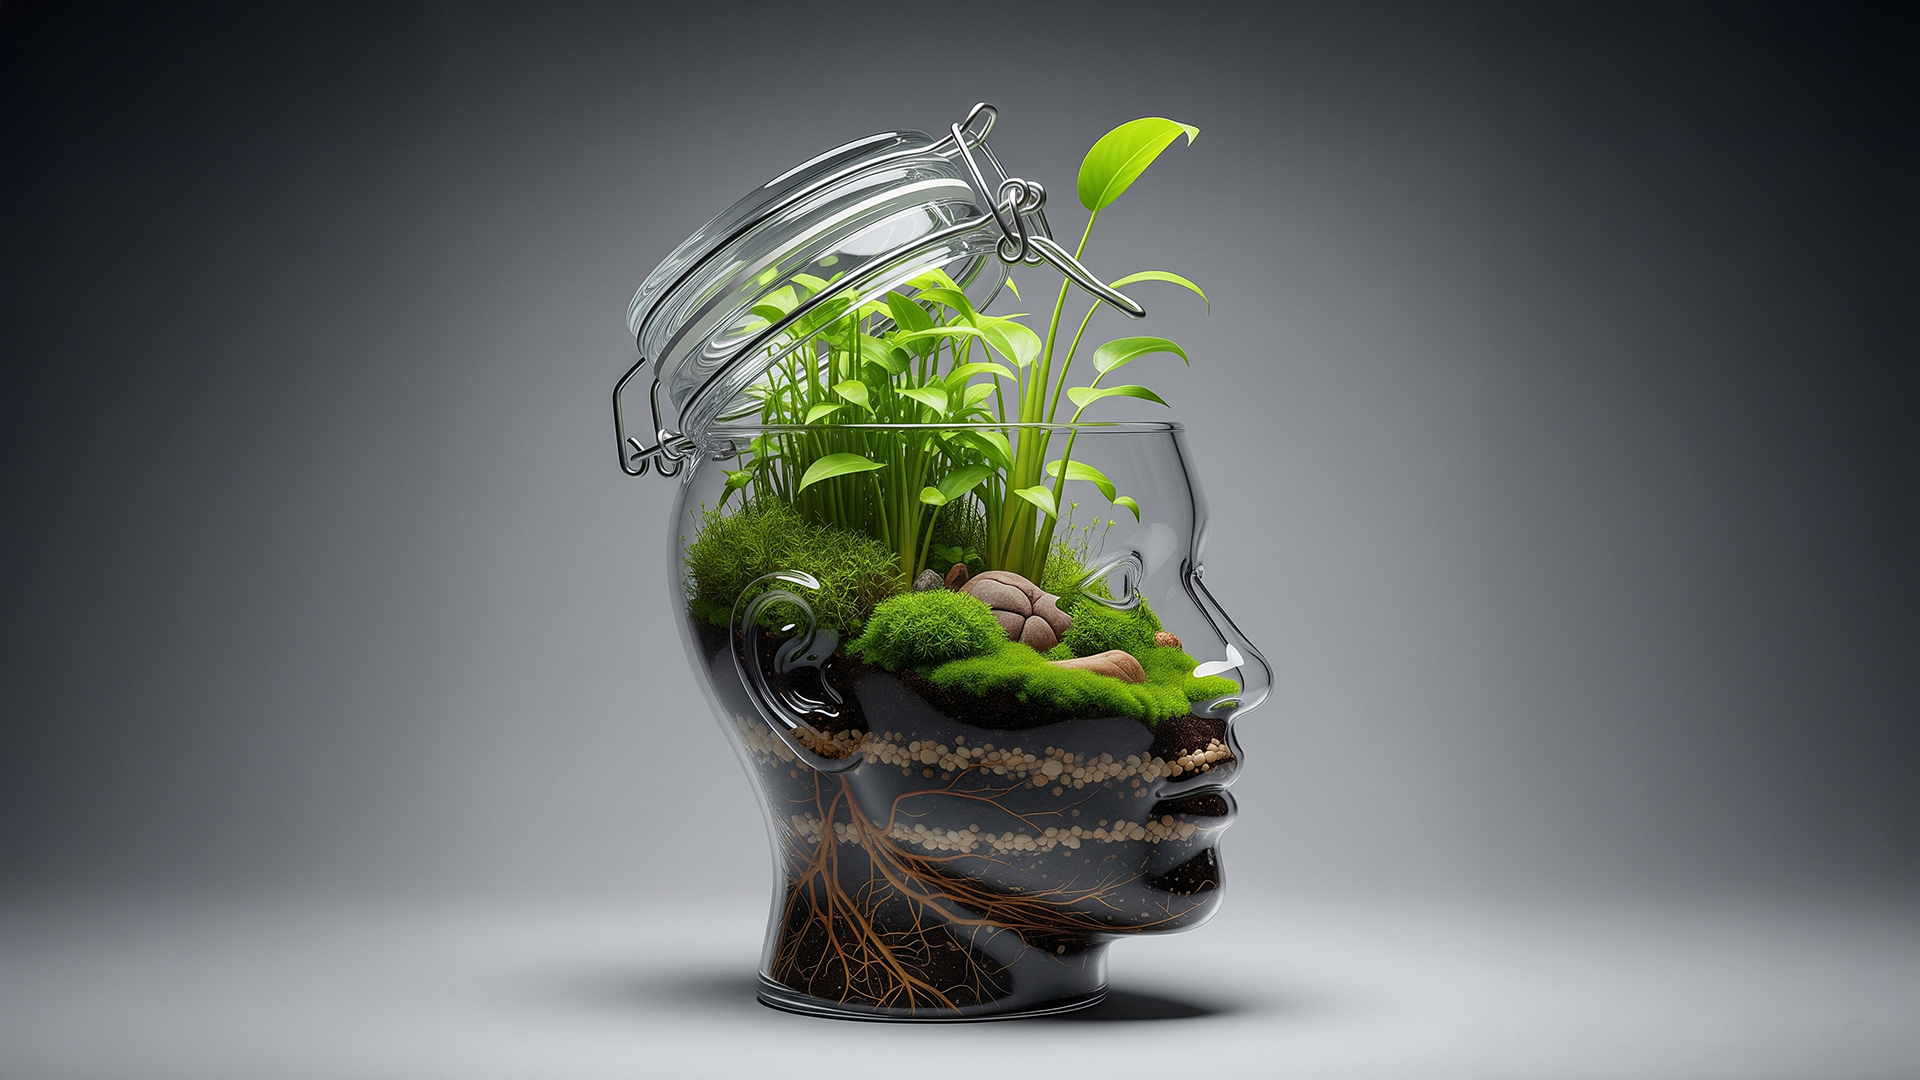
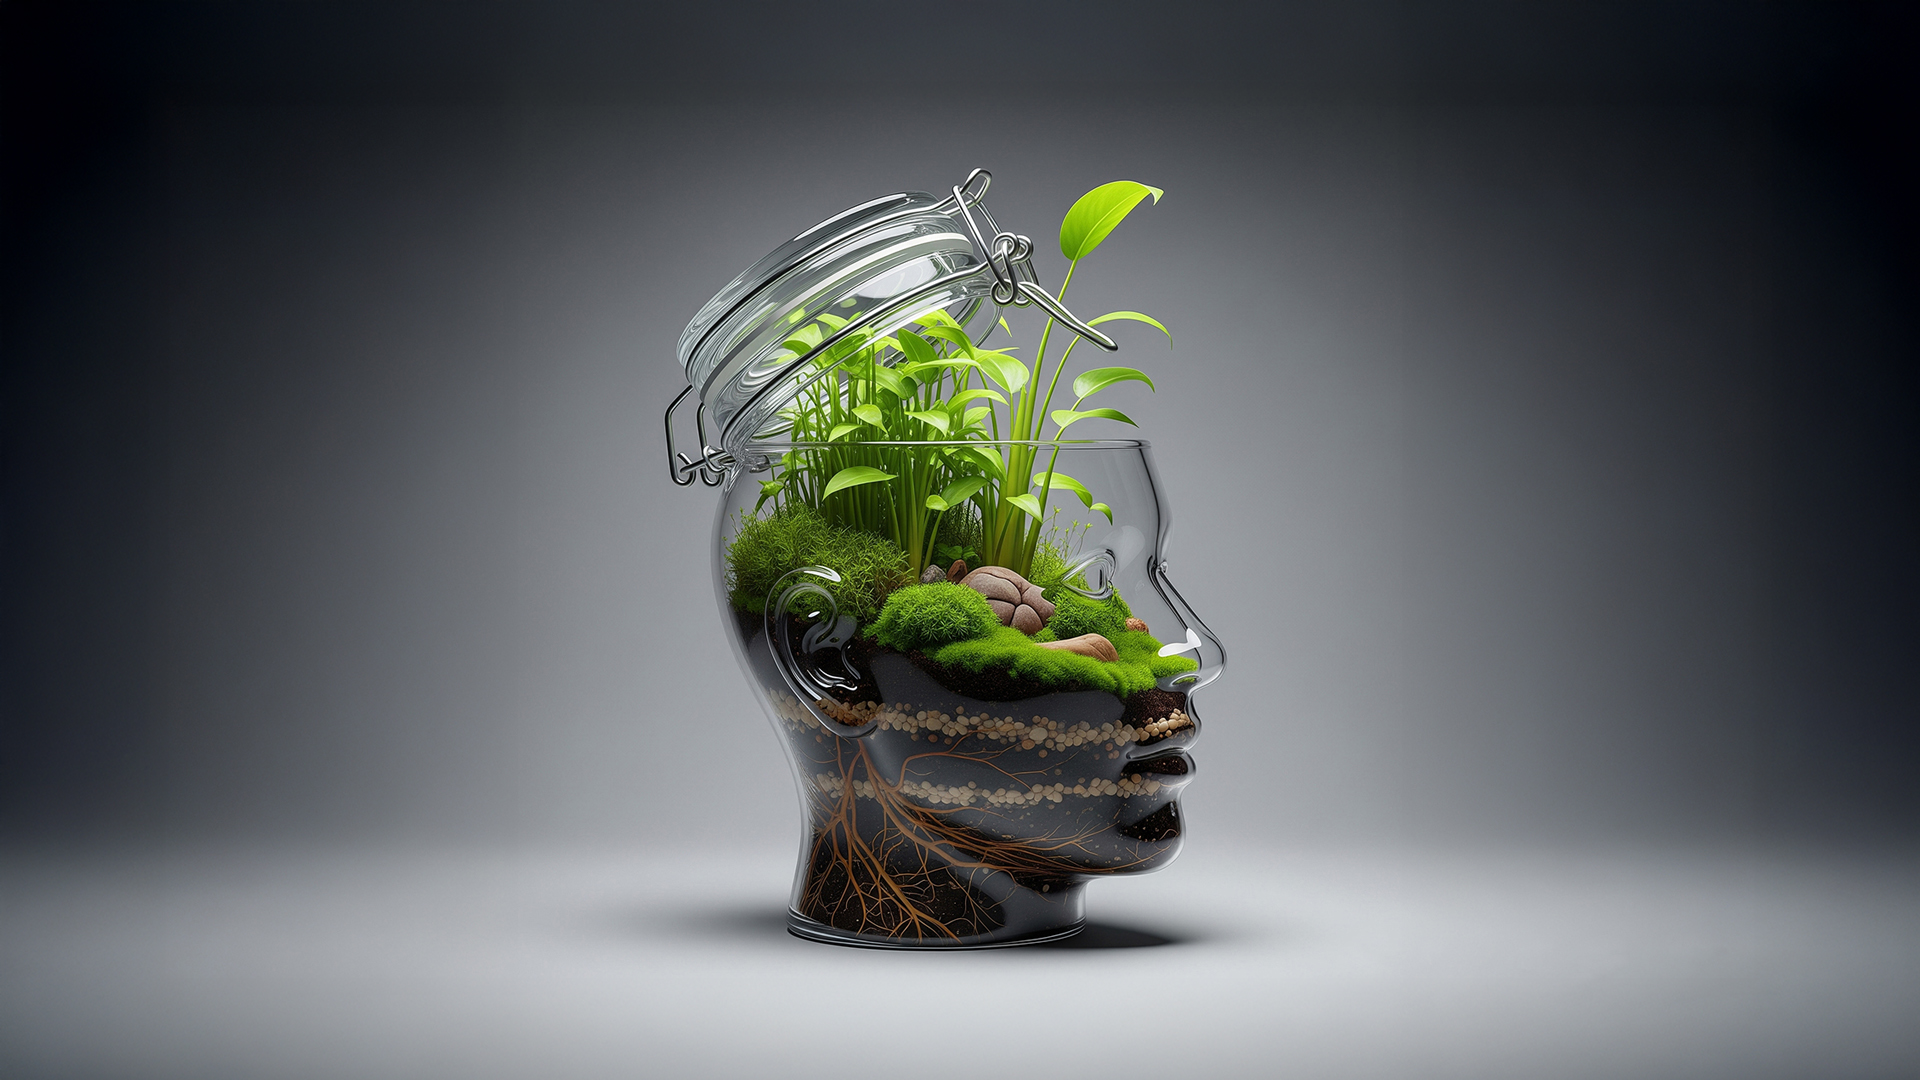
Image backgrounds updated
The images get cropped a little. so some of the image contents needed to be scaled down a bit

diff --git a/scripts/app.js b/scripts/app.js
@@ -492,20 +492,25 @@ function init() {
     }
     // Reflect text editing controls
     if (controls.editToggle) controls.editToggle.checked = !!sc.isEditing;
+    // Show/hide editor block
+    const textCtl = controls.textInput ? controls.textInput.closest('.control') : null;
+    const btnCtl = controls.applyTextBtn ? controls.applyTextBtn.closest('.control') : null;
+    const on = !!sc.isEditing;
+    if (textCtl) textCtl.style.display = on ? '' : 'none';
+    if (btnCtl) btnCtl.style.display = on ? '' : 'none';
     if (controls.textInput) {
       // Keep textarea enabled at all times for easier editing
       controls.textInput.disabled = false;
-      // Only update the textarea if it is not focused to avoid clobbering typing
-      if (document.activeElement !== controls.textInput) {
-        // Prefill with saved RAW text if available; otherwise blank
+      // Only update when editor is ON, not focused, and current value empty
+      if (on && document.activeElement !== controls.textInput && !controls.textInput.value) {
         let raw = '';
         try { raw = localStorage.getItem(sc.storageRawKey()) || ''; } catch (_) { raw = ''; }
         controls.textInput.value = raw;
       }
     }
-    if (controls.applyTextBtn) controls.applyTextBtn.disabled = !sc.isEditing;
-    if (controls.saveTextBtn) controls.saveTextBtn.disabled = !sc.isEditing;
-    if (controls.restoreTextBtn) controls.restoreTextBtn.disabled = !sc.isEditing;
+    if (controls.applyTextBtn) controls.applyTextBtn.disabled = !on;
+    if (controls.saveTextBtn) controls.saveTextBtn.disabled = !on;
+    if (controls.restoreTextBtn) controls.restoreTextBtn.disabled = !on;
   }
 
   const alignSel = document.getElementById('alignSelect');
@@ -570,7 +575,10 @@ function init() {
       const sc = sections[activeIndex];
       if (!sc) return;
       sc.enableEditing(controls.editToggle.checked);
-      // Refresh textarea with current content upon toggling
+      // If turning ON and textarea is empty, prefill from saved raw
+      if (controls.editToggle.checked && controls.textInput && !controls.textInput.value) {
+        try { controls.textInput.value = localStorage.getItem(sc.storageRawKey()) || ''; } catch (_) {}
+      }
       reflectActiveInControls();
     });
   }
